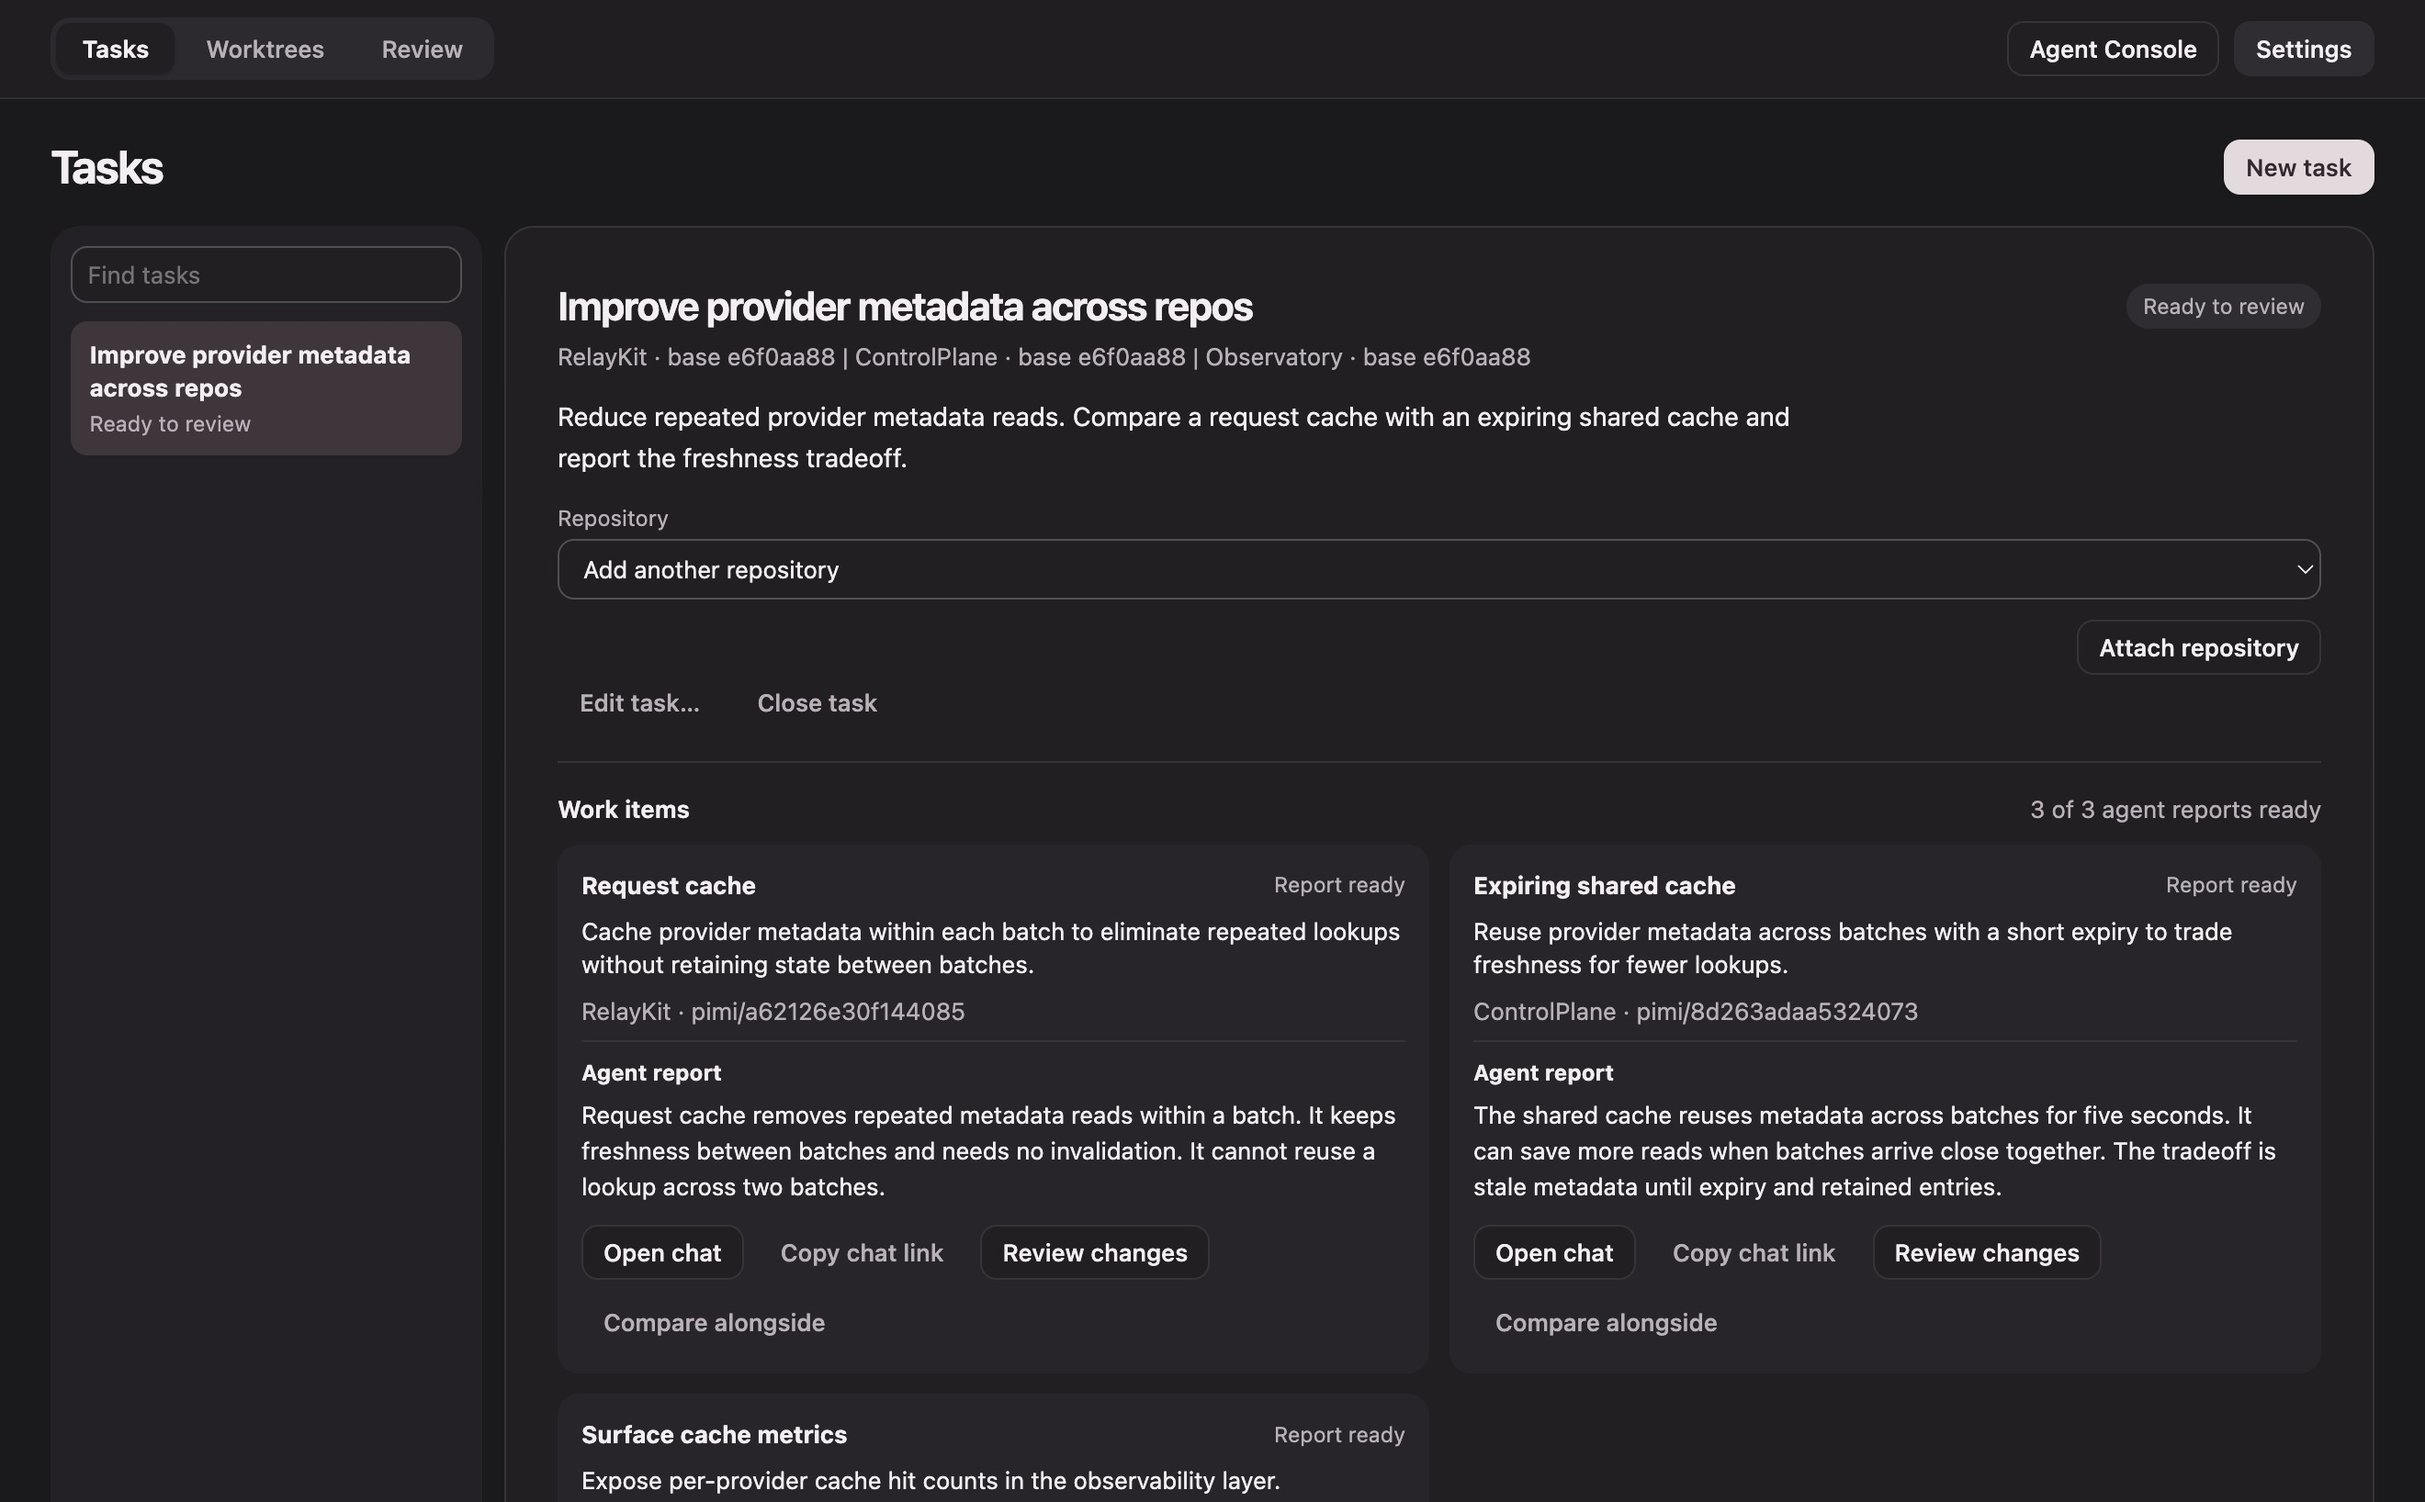
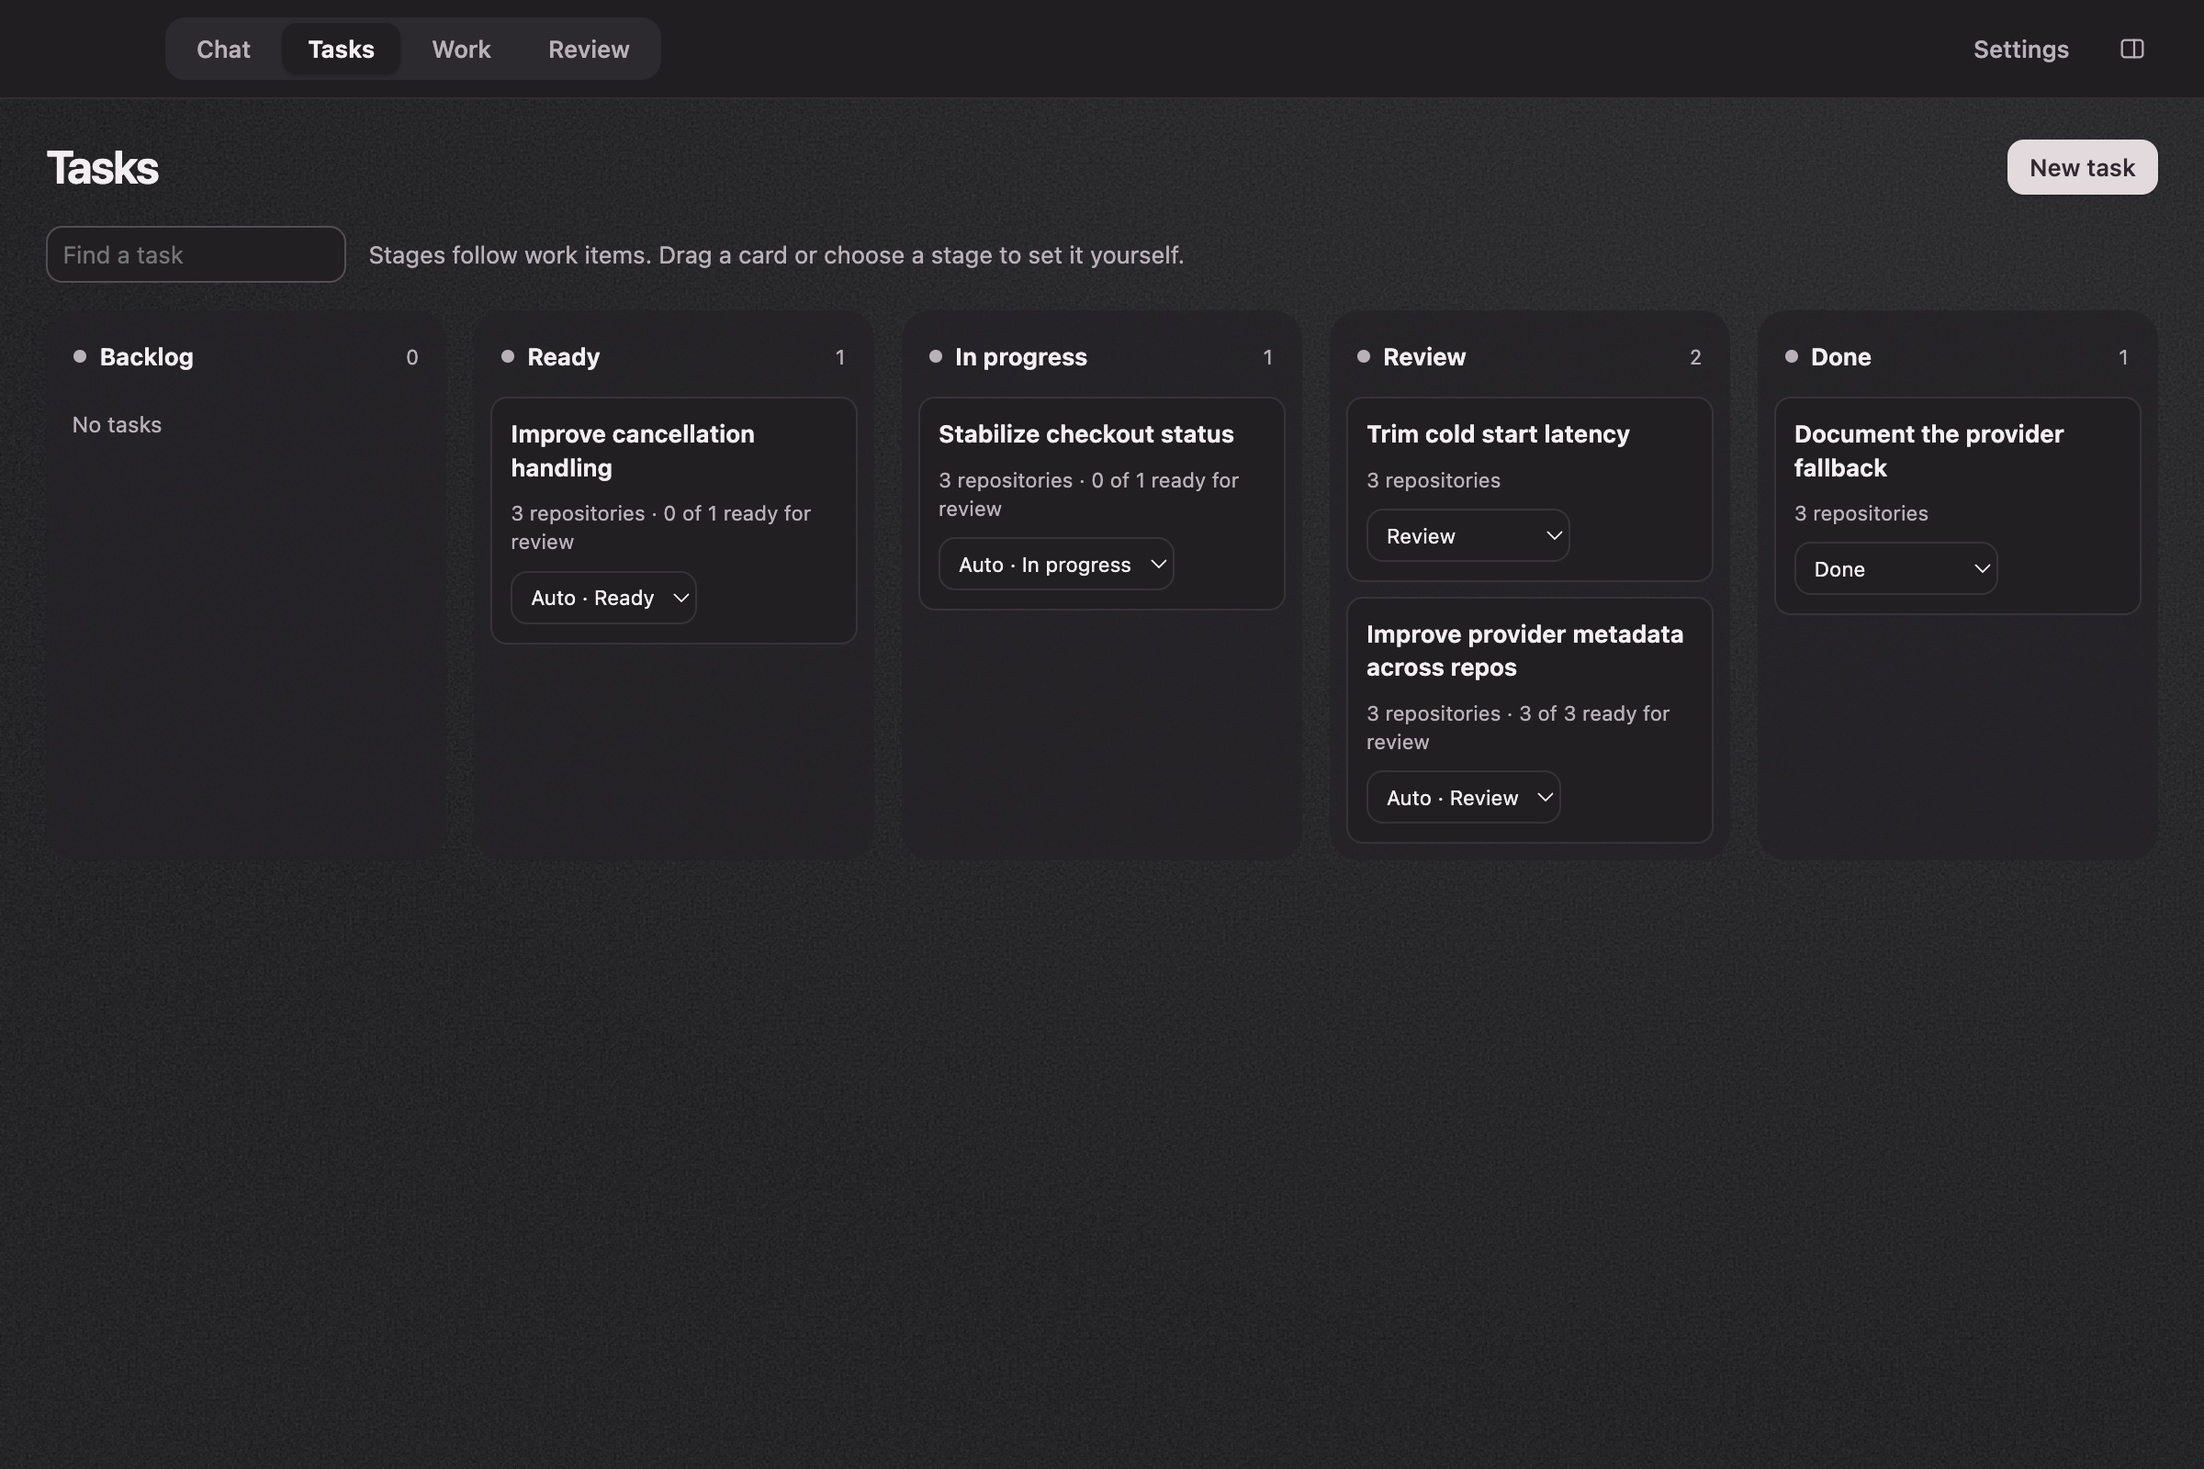
Give Pimi appearances botanical, paper, and graphite textures

diff --git a/pimi/public/style.css b/pimi/public/style.css
@@ -23,11 +23,7 @@
   --diff-add: light-dark(#e7f3ea, #26372b);
   --diff-remove: light-dark(#f9e8e6, #3a2c2b);
   --diff-meta: light-dark(#f5f0f2, #232723);
-  --wash:
-    radial-gradient(ellipse at 11% -40%, light-dark(#fffaf3, transparent), transparent 64%),
-    radial-gradient(ellipse at 76% -25%, light-dark(#edc5d0, transparent), transparent 74%),
-    radial-gradient(ellipse at 105% 12%, light-dark(#f2d9cc, transparent), transparent 64%);
-  --grain: url("/grain.svg");
+  --wash: radial-gradient(ellipse at 86% 0%, light-dark(#edc5d0a8, transparent), transparent 74%);
   --shadow: 0 8px 24px light-dark(#4a30301c, #0006);
   --control-shadow: 0 1px 2px light-dark(#34262d12, #0003);
   --toolbar-height: 54px;
@@ -48,13 +44,6 @@
 
 :root[data-appearance="dark"] {
   color-scheme: dark;
-  --grain: none;
-}
-
-@media (prefers-color-scheme: dark) {
-  :root[data-appearance="system"] {
-    --grain: none;
-  }
 }
 
 :root[data-appearance="paper"] {
@@ -85,7 +74,6 @@
     --line: var(--muted);
     --control-line: var(--muted);
     --wash: none;
-    --grain: none;
   }
 }
 
@@ -98,25 +86,18 @@
 
 body {
   margin: 0;
-  isolation: isolate;
   background-color: var(--background);
-  background-image: var(--wash);
-  background-repeat: no-repeat;
-  background-size: 100% 250px;
+  background-image: var(--pimi-ink), var(--pimi-material), var(--wash);
+  background-position:
+    var(--pimi-ink-position),
+    top left,
+    top left;
+  background-repeat: no-repeat, repeat, no-repeat;
+  background-size:
+    var(--pimi-ink-size),
+    auto,
+    100% 360px;
   color: var(--text);
-}
-
-body::before {
-  content: "";
-  position: absolute;
-  z-index: -1;
-  inset: 0 0 auto;
-  height: 265px;
-  pointer-events: none;
-  background-image: var(--grain);
-  mask-image: linear-gradient(#000 15%, transparent);
-  opacity: 0.24;
-  mix-blend-mode: multiply;
 }
 
 button,

diff --git a/packages/app/public/pimi-textures/appearance.css b/packages/app/public/pimi-textures/appearance.css
@@ -1,0 +1,47 @@
+/* Shared by Pimi's desktop shell and its loopback workspace. */
+:root[data-appearance] {
+  --pimi-ink: url("/pimi-textures/blush.svg");
+  --pimi-ink-size: clamp(440px, 77%, 1080px) auto;
+  --pimi-ink-position: right -16px bottom -52px;
+  --pimi-material: url("/pimi-textures/paper.svg");
+}
+
+:root[data-appearance="paper"] {
+  --pimi-ink: none;
+}
+
+:root[data-appearance="dark"] {
+  --pimi-ink: radial-gradient(ellipse at 84% 14%, #aca9b212, transparent 67%);
+  --pimi-ink-size: 100% 100%;
+  --pimi-ink-position: center;
+  --pimi-material: url("/pimi-textures/graphite.svg");
+}
+
+@media (prefers-color-scheme: dark) {
+  :root[data-appearance="system"] {
+    --pimi-ink: radial-gradient(ellipse at 84% 14%, #aca9b212, transparent 67%);
+    --pimi-ink-size: 100% 100%;
+    --pimi-ink-position: center;
+    --pimi-material: url("/pimi-textures/graphite.svg");
+  }
+}
+
+:root[data-appearance] [data-pimi-background] {
+  background-image: var(--pimi-ink), var(--pimi-material);
+  background-position:
+    var(--pimi-ink-position),
+    top left;
+  background-size: var(--pimi-ink-size), auto;
+  background-repeat: no-repeat, repeat;
+}
+
+:root[data-appearance] [data-pimi-material] {
+  background-image: var(--pimi-material);
+}
+
+@media (prefers-contrast: more), (forced-colors: active) {
+  :root[data-appearance] {
+    --pimi-ink: none;
+    --pimi-material: none;
+  }
+}

diff --git a/pimi/public/index.html b/pimi/public/index.html
@@ -6,6 +6,7 @@
     <meta name="color-scheme" content="light dark" />
     <title>Pimi</title>
     <link rel="icon" type="image/svg+xml" href="/pimi-mark.svg" />
+    <link rel="stylesheet" href="/pimi-textures/appearance.css" />
     <link rel="stylesheet" href="/style.css" />
     <link rel="stylesheet" href="/syntax.css" />
     <script type="module" src="/app.js"></script>
@@ -78,7 +79,7 @@
           </div>
           <div id="task-list" class="lanes task-lanes" aria-label="Task board"></div>
         </div>
-        <div id="task-content" class="task-content" hidden>
+        <div id="task-content" class="task-content" data-pimi-background hidden>
           <form id="task-create" class="task-form" hidden>
             <h2>New task</h2>
             <p id="task-proposal-context" class="subtitle" hidden>

diff --git a/packages/app/src/screens/open-project-screen.tsx b/packages/app/src/screens/open-project-screen.tsx
@@ -24,6 +24,7 @@ import { PairDeviceModal } from "@/desktop/components/pair-device-modal";
 import { buildNewWorkspaceRoute, buildSettingsHostSectionRoute } from "@/utils/host-routes";
 
 const WINDOW_CONTENT_DATASET = { "window-content": "" };
+const PIMI_BACKGROUND = { "pimi-background": "" };
 
 export function OpenProjectScreen() {
   const { t } = useTranslation();
@@ -66,7 +67,7 @@ export function OpenProjectScreen() {
   }, [chooseHost, router]);
 
   return (
-    <View style={styles.container}>
+    <View style={styles.container} dataSet={pimi ? PIMI_BACKGROUND : undefined}>
       <MenuHeader borderless />
       <ScrollView
         style={styles.scroll}

diff --git a/packages/app/src/components/page-layout/index.tsx b/packages/app/src/components/page-layout/index.tsx
@@ -9,6 +9,7 @@ import { useIsCompactFormFactor } from "@/constants/layout";
 import { SPACING } from "@/styles/theme";
 
 const PageScrollView = Platform.OS === "android" ? KeyboardAwareScrollView : ScrollView;
+const PIMI_MATERIAL = { "pimi-material": "" };
 
 interface PageLayoutProps {
   title?: string;
@@ -40,7 +41,7 @@ export function PageLayout({
   const showTitle = !isCompact && title !== undefined;
 
   return (
-    <View style={styles.container}>
+    <View style={styles.container} dataSet={PIMI_MATERIAL}>
       {isCompact ? (
         <BackHeader title={title} onBack={onBack} rightContent={actions} />
       ) : (

diff --git a/packages/app/src/assistant-selection-copy/surface.web.tsx b/packages/app/src/assistant-selection-copy/surface.web.tsx
@@ -8,6 +8,7 @@ interface AssistantSelectionCopySurfaceProps {
 }
 
 const DISPLAY_CONTENTS: CSSProperties = { display: "contents" };
+const CHAT_BACKGROUND = { "pimi-background": "" };
 
 export function AssistantSelectionCopySurface({
   children,
@@ -26,7 +27,9 @@ export function AssistantSelectionCopySurface({
 
   return (
     <div onCopy={handleCopy} style={DISPLAY_CONTENTS}>
-      <View style={style}>{children}</View>
+      <View style={style} dataSet={CHAT_BACKGROUND}>
+        {children}
+      </View>
     </div>
   );
 }

diff --git a/packages/app/src/appearance/provider.tsx b/packages/app/src/appearance/provider.tsx
@@ -87,6 +87,7 @@ export function AppearanceProvider({ children }: { children: ReactNode }) {
       UnistylesRuntime.setAdaptiveThemes(false);
       UnistylesRuntime.setTheme(theme);
       if (typeof document !== "undefined") {
+        document.documentElement.dataset.appearance = mode;
         document.documentElement.style.setProperty(
           "--pimi-focus-ring",
           REGISTERED_THEMES[theme].colors.ring,

diff --git a/packages/app/public/index.html b/packages/app/public/index.html
@@ -14,6 +14,7 @@
     />
     <link rel="manifest" href="/manifest.json" />
     <link rel="apple-touch-icon" href="/apple-touch-icon.png" />
+    <link rel="stylesheet" href="/pimi-textures/appearance.css" />
     <title>%WEB_TITLE%</title>
     <!-- The `react-native-web` recommended style reset: https://necolas.github.io/react-native-web/docs/setup/#root-element -->
     <style id="expo-reset">

diff --git a/README.md b/README.md
@@ -72,11 +72,11 @@ Open **Review** and choose a worktree, or select **Compare alongside** from a wo
 
 ### Choose an appearance
 
-Choose an appearance in **Pimi → Settings → Appearance**. The same setting applies to the workspace, Agent Console, and dictation. Below is the same task in Paper and Dark.
+Choose an appearance in **Pimi → Settings → Appearance**. Blush uses rose botanical linework, Paper has warm fibers, and Dark has graphite grain. **System** follows the Mac’s light or dark appearance. Code and controls keep solid backgrounds.
 
-![The completed task and agent reports in Paper](assets/pimi/paper.jpg)
+![The Tasks board in Paper with a fine fiber texture](assets/pimi/paper.jpg)
 
-![The same task and agent reports in Dark](assets/pimi/dark.jpg)
+![The same Tasks board in Dark with graphite grain](assets/pimi/dark.jpg)
 
 ## What you can do
 
